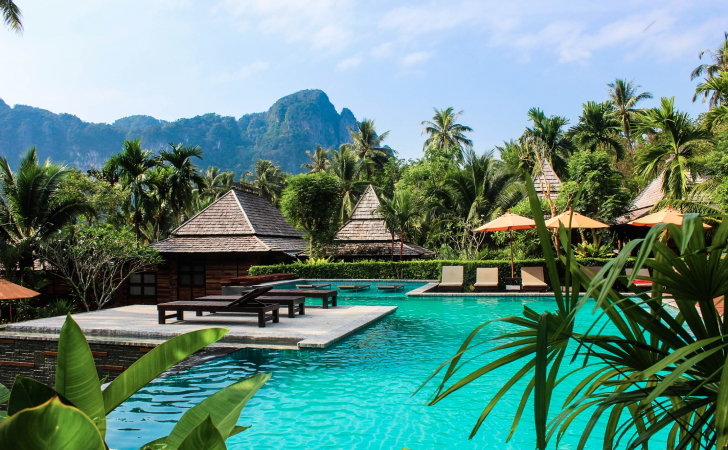
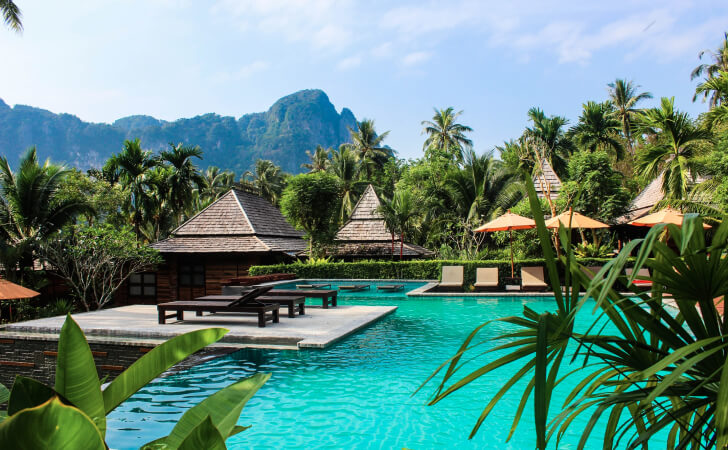
create: added photo swiper-slider in hotel section

diff --git a/index.html b/index.html
@@ -131,10 +131,16 @@
                 <img src="img/slide.jpg" alt="slide">
               </div>
               <div class="swiper-slide">
-                <img src="img/slide.jpg" alt="slide">
+                <img src="img/slide-1.jpg" alt="slide">
               </div>
               <div class="swiper-slide">
-                <img src="img/slide.jpg" alt="slide">
+                <img src="img/slide-2.jpeg" alt="slide">
+              </div>
+              <div class="swiper-slide">
+                <img src="img/slide-3.jpeg" alt="slide">
+              </div>
+              <div class="swiper-slide">
+                <img src="img/slide-4.jpeg" alt="slide">
               </div>
             </div>
 

diff --git a/js/main.js b/js/main.js
@@ -7,5 +7,4 @@ const swiper = new Swiper('.swiper', {
     nextEl: '.slider-button--next',
     prevEl: '.slider-button--prev',
   },
-  effect: "cube",
 });
